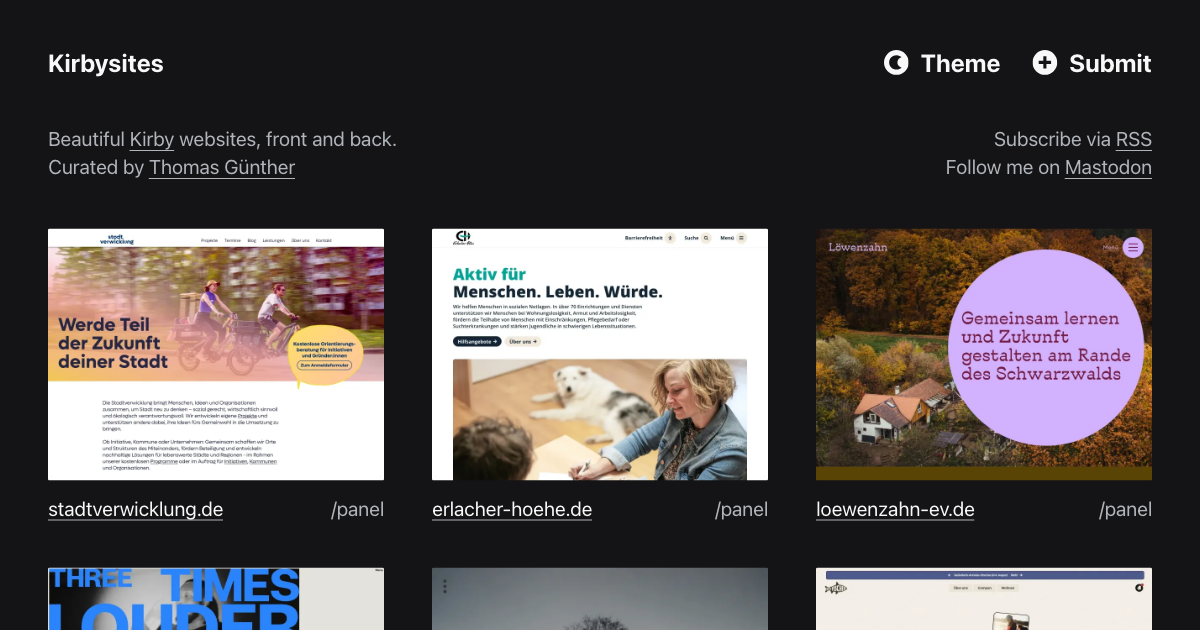
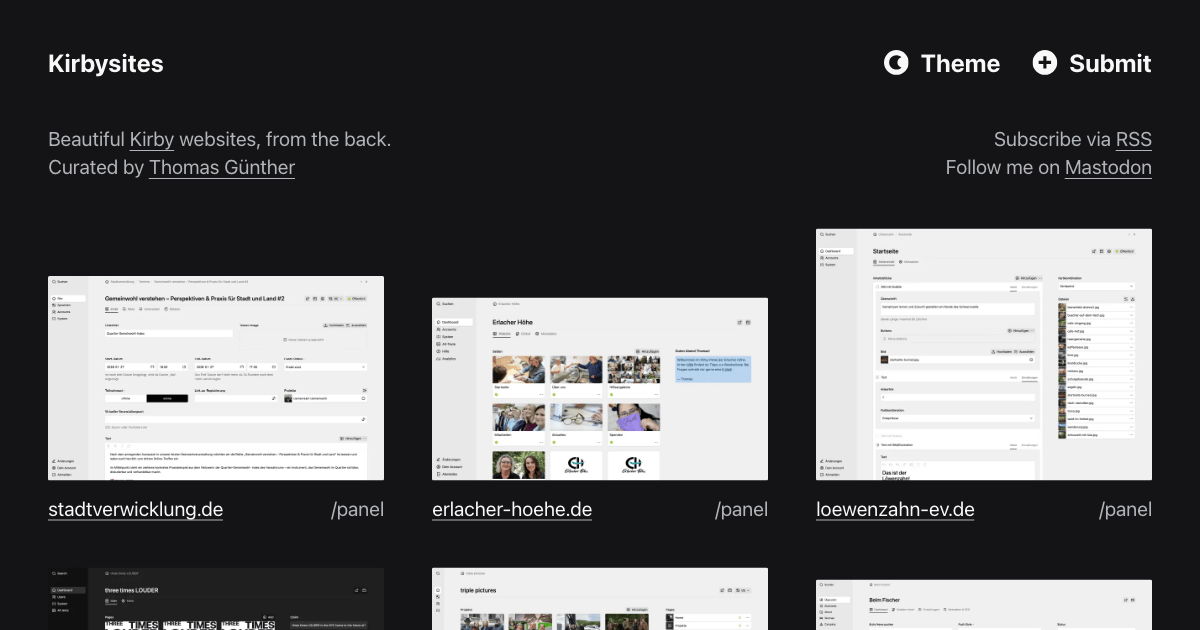
Who cares about the frontend anyways?

diff --git a/assets/css/style.min.css b/assets/css/style.min.css
@@ -1,2 +1,2 @@
-@layer reset{*,*:before,*:after{box-sizing:border-box}*{margin:0;padding:0}:root{text-size-adjust:none}img,picture,video,canvas,svg{display:block;max-width:100%}input,button,textarea,select{font:inherit;color:inherit}h1,h2,h3,h4,h5,h6{margin:0;font-size:inherit;font-weight:inherit}button{all:unset;cursor:pointer;box-sizing:border-box;&:focus-visible{outline:revert}}a{color:inherit;text-decoration:none}ul,ol{list-style-type:none}}@layer base{:root{font:16px system-ui,sans-serif;scroll-padding-block:calc(var(--spacing-block))}body{background-color:var(--color-primary);color:var(--color-secondary);font-size:var(--font-size-m)}@media (prefers-reduced-motion: no-preference){@view-transition{navigation: auto;}::view-transition-group(.screenshot){animation-duration:.25s;animation-timing-function:var(--ease-in-out-3);z-index:10;opacity:1}}::selection,::target-text{background-color:var(--color-secondary);color:var(--color-primary)}}@layer base{:root{--color-primary: #141416;--color-secondary: #f8f8f8;--color-tertiary: #b1b4ba}@media (prefers-color-scheme: light){:root:not([data-theme]){--color-primary: #f8f8f8;--color-secondary: #141416;--color-tertiary: #6b6e74}}[data-theme=light]{--color-primary: #f8f8f8;--color-secondary: #141416;--color-tertiary: #6b6e74}}@layer base{:root{--focus-outline-color: currentColor;--focus-outline-offset: .2rem;--focus-outline-style: solid;--focus-outline-width: .2rem}*:focus-visible{outline-color:var(--focus-outline-color);outline-offset:var(--focus-outline-offset);outline-style:var(--focus-outline-style);outline-width:var(--focus-outline-width);border-radius:var(--border-radius)}}@layer base{.wrap{padding-inline:var(--spacing-inline)}.inner{width:100%;max-width:var(--width-max);margin:0 auto}.grid{display:grid;grid-template-columns:repeat(12,1fr);gap:var(--spacing-grid)}hr{margin-block:calc(var(--spacing-flow) * 2);height:1px;border:none;background-color:currentColor;opacity:.25}}@layer base{@media (scripting: enabled){[loading=lazy]{opacity:0;transition:opacity .5s}}}@layer base{.rich-text{line-height:1.4;text-wrap:pretty;>*:first-child{margin-block-start:0}>*:last-child{margin-block-end:0}}.rich-text p{margin-block:var(--spacing-flow)}.rich-text a,.link-decoration{text-decoration:underline;text-decoration-thickness:.06em;text-underline-offset:.2em;text-decoration-color:var(--color-tertiary);word-break:break-word;transition:all .1s var(--ease-1);transition-property:color,text-decoration-color;&:focus-visible,&:hover{color:var(--color-secondary);text-decoration-color:var(--color-secondary)}&:active{filter:brightness(.9)}}.rich-text strong{font-weight:700}.rich-text em{font-style:italic}.rich-text code{background:color-mix(in srgb,var(--color-secondary),var(--color-primary) 90%);border:1px solid color-mix(in srgb,var(--color-secondary),var(--color-primary) 80%);padding:.2em;border-radius:var(--border-radius);font-size:.85em;word-break:break-word;font-family:monospace}}@layer base{:root{-webkit-font-smoothing:antialiased;-moz-osx-font-smoothing:grayscale}:root{--font-size-s: clamp(.875rem, .8155rem + .2381vw, 1rem);--font-size-m: clamp(1.05rem, .9548rem + .381vw, 1.25rem);--font-size-l: clamp(1.26rem, 1.116rem + .5762vw, 1.5625rem)}}@layer base{:root{--ease-1: cubic-bezier(.25, 0, .5, 1);--ease-2: cubic-bezier(.25, 0, .4, 1);--ease-3: cubic-bezier(.25, 0, .3, 1);--ease-4: cubic-bezier(.25, 0, .2, 1);--ease-5: cubic-bezier(.25, 0, .1, 1);--ease-in-1: cubic-bezier(.25, 0, 1, 1);--ease-in-2: cubic-bezier(.5, 0, 1, 1);--ease-in-3: cubic-bezier(.7, 0, 1, 1);--ease-in-4: cubic-bezier(.9, 0, 1, 1);--ease-in-5: cubic-bezier(1, 0, 1, 1);--ease-out-1: cubic-bezier(0, 0, .75, 1);--ease-out-2: cubic-bezier(0, 0, .5, 1);--ease-out-3: cubic-bezier(0, 0, .3, 1);--ease-out-4: cubic-bezier(0, 0, .1, 1);--ease-out-5: cubic-bezier(0, 0, 0, 1);--ease-in-out-1: cubic-bezier(.1, 0, .9, 1);--ease-in-out-2: cubic-bezier(.3, 0, .7, 1);--ease-in-out-3: cubic-bezier(.5, 0, .5, 1);--ease-in-out-4: cubic-bezier(.7, 0, .3, 1);--ease-in-out-5: cubic-bezier(.9, 0, .1, 1);--ease-elastic-out-1: cubic-bezier(.5, .75, .75, 1.25);--ease-elastic-out-2: cubic-bezier(.5, 1, .75, 1.25);--ease-elastic-out-3: cubic-bezier(.5, 1.25, .75, 1.25);--ease-elastic-out-4: cubic-bezier(.5, 1.5, .75, 1.25);--ease-elastic-out-5: cubic-bezier(.5, 1.75, .75, 1.25);--ease-elastic-in-1: cubic-bezier(.5, -.25, .75, 1);--ease-elastic-in-2: cubic-bezier(.5, -.5, .75, 1);--ease-elastic-in-3: cubic-bezier(.5, -.75, .75, 1);--ease-elastic-in-4: cubic-bezier(.5, -1, .75, 1);--ease-elastic-in-5: cubic-bezier(.5, -1.25, .75, 1);--ease-elastic-in-out-1: cubic-bezier(.5, -.1, .1, 1.5);--ease-elastic-in-out-2: cubic-bezier(.5, -.3, .1, 1.5);--ease-elastic-in-out-3: cubic-bezier(.5, -.5, .1, 1.5);--ease-elastic-in-out-4: cubic-bezier(.5, -.7, .1, 1.5);--ease-elastic-in-out-5: cubic-bezier(.5, -.9, .1, 1.5);--ease-step-1: steps(2);--ease-step-2: steps(3);--ease-step-3: steps(4);--ease-step-4: steps(7);--ease-step-5: steps(10);--ease-elastic-1: var(--ease-elastic-out-1);--ease-elastic-2: var(--ease-elastic-out-2);--ease-elastic-3: var(--ease-elastic-out-3);--ease-elastic-4: var(--ease-elastic-out-4);--ease-elastic-5: var(--ease-elastic-out-5);--ease-squish-1: var(--ease-elastic-in-out-1);--ease-squish-2: var(--ease-elastic-in-out-2);--ease-squish-3: var(--ease-elastic-in-out-3);--ease-squish-4: var(--ease-elastic-in-out-4);--ease-squish-5: var(--ease-elastic-in-out-5);--ease-spring-1: linear( 0, .006, .025 2.8%, .101 6.1%, .539 18.9%, .721 25.3%, .849 31.5%, .937 38.1%, .968 41.8%, .991 45.7%, 1.006 50.1%, 1.015 55%, 1.017 63.9%, 1.001 );--ease-spring-2: linear( 0, .007, .029 2.2%, .118 4.7%, .625 14.4%, .826 19%, .902, .962, 1.008 26.1%, 1.041 28.7%, 1.064 32.1%, 1.07 36%, 1.061 40.5%, 1.015 53.4%, .999 61.6%, .995 71.2%, 1 );--ease-spring-3: linear( 0, .009, .035 2.1%, .141 4.4%, .723 12.9%, .938 16.7%, 1.017, 1.077, 1.121, 1.149 24.3%, 1.159, 1.163, 1.161, 1.154 29.9%, 1.129 32.8%, 1.051 39.6%, 1.017 43.1%, .991, .977 51%, .974 53.8%, .975 57.1%, .997 69.8%, 1.003 76.9%, 1 );--ease-spring-4: linear( 0, .009, .037 1.7%, .153 3.6%, .776 10.3%, 1.001, 1.142 16%, 1.185, 1.209 19%, 1.215 19.9% 20.8%, 1.199, 1.165 25%, 1.056 30.3%, 1.008 33%, .973, .955 39.2%, .953 41.1%, .957 43.3%, .998 53.3%, 1.009 59.1% 63.7%, .998 78.9%, 1 );--ease-spring-5: linear( 0, .01, .04 1.6%, .161 3.3%, .816 9.4%, 1.046, 1.189 14.4%, 1.231, 1.254 17%, 1.259, 1.257 18.6%, 1.236, 1.194 22.3%, 1.057 27%, .999 29.4%, .955 32.1%, .942, .935 34.9%, .933, .939 38.4%, 1 47.3%, 1.011, 1.017 52.6%, 1.016 56.4%, 1 65.2%, .996 70.2%, 1.001 87.2%, 1 );--ease-bounce-1: linear( 0, .004, .016, .035, .063, .098, .141, .191, .25, .316, .391 36.8%, .563, .766, 1 58.8%, .946, .908 69.1%, .895, .885, .879, .878, .879, .885, .895, .908 89.7%, .946, 1 );--ease-bounce-2: linear( 0, .004, .016, .035, .063, .098, .141 15.1%, .25, .391, .562, .765, 1, .892 45.2%, .849, .815, .788, .769, .757, .753, .757, .769, .788, .815, .85, .892 75.2%, 1 80.2%, .973, .954, .943, .939, .943, .954, .973, 1 );--ease-bounce-3: linear( 0, .004, .016, .035, .062, .098, .141 11.4%, .25, .39, .562, .764, 1 30.3%, .847 34.8%, .787, .737, .699, .672, .655, .65, .656, .672, .699, .738, .787, .847 61.7%, 1 66.2%, .946, .908, .885 74.2%, .879, .878, .879, .885 79.5%, .908, .946, 1 87.4%, .981, .968, .96, .957, .96, .968, .981, 1 );--ease-bounce-4: linear( 0, .004, .016 3%, .062, .141, .25, .391, .562 18.2%, 1 24.3%, .81, .676 32.3%, .629, .595, .575, .568, .575, .595, .629, .676 48.2%, .811, 1 56.2%, .918, .86, .825, .814, .825, .86, .918, 1 77.2%, .94 80.6%, .925, .92, .925, .94 87.5%, 1 90.9%, .974, .965, .974, 1 );--ease-bounce-5: linear( 0, .004, .016 2.5%, .063, .141, .25 10.1%, .562, 1 20.2%, .783, .627, .534 30.9%, .511, .503, .511, .534 38%, .627, .782, 1 48.7%, .892, .815, .769 56.3%, .757, .753, .757, .769 61.3%, .815, .892, 1 68.8%, .908 72.4%, .885, .878, .885, .908 79.4%, 1 83%, .954 85.5%, .943, .939, .943, .954 90.5%, 1 93%, .977, .97, .977, 1 )}}@layer base{:root{--width-max: 1200px;--spacing-flow: 1rem;--spacing-grid: 1rem;--spacing-inline: 3rem;--spacing-block: 3rem;--spacing-block-s: 1rem;--spacing-block-l: 6rem;--border-radius: .1rem;@media (max-width: 1000px){--spacing-inline: 1rem;--spacing-block: 2rem;--spacing-block-l: 4rem}}}@layer base;@layer components{.columns{display:grid;gap:var(--spacing-block) var(--spacing-inline);@media (min-width: 1000px){grid-template-columns:repeat(auto-fit,minmax(20rem,1fr))}}}@layer components{.icon-button{display:flex;align-items:center;gap:.75rem;color:var(--color-secondary);line-height:1;&:active{filter:brightness(.9)}@media (max-width: 500px){gap:.25rem}}.icon-button__icon{width:1lh;height:1lh;color:currentColor}}@layer components{.logo{&:active{filter:brightness(.9)}}}@layer components{.skip-to-content{position:absolute;top:0;left:0;right:0;margin-inline:auto;z-index:10;max-width:fit-content;transform:translateY(-100%);opacity:0;padding:.5rem;background-color:var(--color-primary);color:var(--color-secondary);@media (prefers-reduced-motion: no-preference){transition:all .25s var(--ease-spring-1);transition-property:transform,opacity}&:focus-visible{transform:translateY(0);opacity:1}}}@layer components{.submit-dialog{margin:auto;max-width:30rem;padding:2rem;background-color:var(--color-primary);color:var(--color-secondary);border:none;border-radius:var(--border-radius);font-size:var(--font-size-l);&::backdrop{background-color:color-mix(in srgb,var(--color-primary),transparent 20%);backdrop-filter:blur(10px)}}.submit-dialog__header{display:flex;align-items:center;margin-block-end:1.5rem}.submit-dialog__title{font-weight:700}.submit-dialog__text{font-size:var(--font-size-m)}.submit-dialog__close{margin-inline-start:auto;border-radius:100%;&:active{filter:brightness(.9)}}.submit-dialog__close-icon{width:1lh;height:1lh}}@layer components{.theme-toggle__icon{display:flex;transition:opacity .2s ease}.theme-toggle__icon--light{display:none}[data-theme=light] .theme-toggle__icon--light{display:flex}[data-theme=light] .theme-toggle__icon--dark{display:none}@media (prefers-color-scheme: light){:root:not([data-theme]) .theme-toggle__icon--light{display:flex}:root:not([data-theme]) .theme-toggle__icon--dark{display:none}}}@layer components{.mode-toggle{display:none}.mode-toggle__icon{display:flex;transition:opacity .2s ease}.mode-toggle__icon--list{display:none}[data-mode=list] .mode-toggle__icon--list{display:flex}[data-mode=list] .mode-toggle__icon--grid{display:none}}@layer components{.website-image{border-radius:var(--border-radius);@media (max-width: 1000px){border-radius:0}}.website-image--frontend{view-transition-class:screenshot;[data-theme=light] &{box-shadow:0 0 #14141600,0 0 2px #14141603,0 1px 4px #14141603,0 2px 6px #14141605,0 3px 10px #14141605}}.website-image__caption{margin-block-start:var(--spacing-block-s);color:var(--color-tertiary);max-width:75ch;text-wrap:balance;@media (max-width: 1000px){margin-inline:var(--spacing-inline)}}}@layer components{.website-link{display:flex;flex-direction:column;border-radius:var(--border-radius);gap:var(--spacing-block-s);position:relative}.website-link__image-link{--focus-outline-offset: .25rem;view-transition-class:screenshot}.website-link__image{aspect-ratio:4 / 3;height:auto;object-fit:cover;object-position:top;border-radius:var(--border-radius);&:active{filter:brightness(.9)}[data-theme=light] &{box-shadow:0 0 #14141600,0 0 2px #14141603,0 1px 4px #14141603,0 2px 6px #14141605,0 3px 10px #14141605}}.website-link__text{display:flex;align-items:center;justify-content:space-between;gap:1rem}.website-link__url{position:relative;z-index:2;white-space:nowrap;overflow-x:clip;text-overflow:ellipsis;min-width:0}.website-link__panel{color:var(--color-tertiary);transition:all .1s var(--ease-1);transition-property:color;&:hover,&:focus-visible{color:var(--color-secondary)}&:active{filter:brightness(.9)}}}@layer components;@layer sections{.header{font-weight:700;margin-block:var(--spacing-block);font-size:var(--font-size-l)}.header__inner{display:flex;justify-content:space-between}.header__buttons{display:flex;gap:2rem;@media (max-width: 500px){font-size:var(--font-size-m);gap:1rem}@media (max-width: 400px){gap:.5rem}}}@layer sections{.footer{margin-block:var(--spacing-block-l);font-size:var(--font-size-s);color:var(--color-tertiary)}.footer__inner{display:flex;gap:1rem}}@layer sections{.intro{margin-block:var(--spacing-block);font-size:var(--font-size-m);color:var(--color-tertiary)}.intro__aside{@media (min-width: 1000px){text-align:end}}}@layer sections{.outro{margin-block:var(--spacing-block);font-size:var(--font-size-m);color:var(--color-tertiary)}}@layer sections{.pagination{margin-block:var(--spacing-block);font-size:var(--font-size-m);display:flex;border-block-start:1px solid color-mix(in srgb,var(--color-secondary),transparent 90%);padding-block-start:var(--spacing-block);gap:var(--spacing-inline)}.pagination__link{color:var(--color-tertiary);transition:all .1s var(--ease-1);transition-property:color;white-space:nowrap;min-width:0;overflow-x:clip;text-overflow:ellipsis;&:hover,&:focus-visible{color:var(--color-secondary)}}.pagination__link--next{margin-inline-start:auto}}@layer sections{.website-images{margin-block:var(--spacing-block)}.website-images__inner{display:flex;flex-direction:column;gap:var(--spacing-block);@media (max-width: 1000px){margin-inline:calc(var(--spacing-inline) * -1);width:auto}}.website-images__item{width:100%;height:auto}}@layer sections{.website-links{margin-block:var(--spacing-block)}.website-links__item{min-width:0}}@layer sections{.website-list{margin-block:var(--spacing-block-l);overflow:clip}.website-list__list{display:flex;flex-direction:column;gap:var(--spacing-block-l)}.website-list-item{display:flex;flex-direction:column;overflow-x:scroll;scroll-snap-type:x mandatory;--negative-space: calc((100vw - var(--width-max)) / 2);margin-inline:calc((var(--negative-space)) * -1);scroll-padding-inline:calc(var(--negative-space));padding-inline:var(--negative-space);padding-block-end:var(--spacing-block-s);scrollbar-width:thin;scrollbar-color:var(--color-secondary) transparent;@media (max-width: 1200px){--negative-space: var(--spacing-inline)}}.website-list-item__header{display:grid;grid-template-columns:1fr auto;position:sticky;left:0;color:var(--color-tertiary);@media (max-width: 1000px){grid-template-columns:1fr}}.website-list-item__title{color:var(--color-secondary);font-weight:700;grid-column:1;grid-row:1}.website-list-item__text{grid-column:1 / -1}.website-list-item__link{grid-column:2;grid-row:1;@media (max-width: 1000px){grid-column:auto;grid-row:auto;margin-block-start:var(--spacing-block-s)}}.website-list-item__list{margin-block-start:var(--spacing-block-s);display:flex;gap:var(--spacing-block-s);>*{flex:0 0 30rem;@media (max-width: 1200px){flex-basis:15rem}}&:after{content:"";display:block;flex:0 0 auto;width:max(1px,calc(var(--negative-space) - var(--spacing-block-s)))}}.website-list-item__image-wrap{aspect-ratio:4 / 3;overflow:clip;min-height:0;scroll-snap-align:start}.website-list-item__image{width:100%;height:auto;max-height:100%}}@layer sections;
+@layer reset{*,*:before,*:after{box-sizing:border-box}*{margin:0;padding:0}:root{text-size-adjust:none}img,picture,video,canvas,svg{display:block;max-width:100%}input,button,textarea,select{font:inherit;color:inherit}h1,h2,h3,h4,h5,h6{margin:0;font-size:inherit;font-weight:inherit}button{all:unset;cursor:pointer;box-sizing:border-box;&:focus-visible{outline:revert}}a{color:inherit;text-decoration:none}ul,ol{list-style-type:none}}@layer base{:root{font:16px system-ui,sans-serif;scroll-padding-block:calc(var(--spacing-block))}body{background-color:var(--color-primary);color:var(--color-secondary);font-size:var(--font-size-m)}@media (prefers-reduced-motion: no-preference){@view-transition{navigation: auto;}::view-transition-group(.screenshot){animation-duration:.25s;animation-timing-function:var(--ease-in-out-3);z-index:10;opacity:1}}::selection,::target-text{background-color:var(--color-secondary);color:var(--color-primary)}}@layer base{:root{--color-primary: #141416;--color-secondary: #f8f8f8;--color-tertiary: #b1b4ba}@media (prefers-color-scheme: light){:root:not([data-theme]){--color-primary: #f8f8f8;--color-secondary: #141416;--color-tertiary: #6b6e74}}[data-theme=light]{--color-primary: #f8f8f8;--color-secondary: #141416;--color-tertiary: #6b6e74}}@layer base{:root{--focus-outline-color: currentColor;--focus-outline-offset: .2rem;--focus-outline-style: solid;--focus-outline-width: .2rem}*:focus-visible{outline-color:var(--focus-outline-color);outline-offset:var(--focus-outline-offset);outline-style:var(--focus-outline-style);outline-width:var(--focus-outline-width);border-radius:var(--border-radius)}}@layer base{.wrap{padding-inline:var(--spacing-inline)}.inner{width:100%;max-width:var(--width-max);margin:0 auto}.grid{display:grid;grid-template-columns:repeat(12,1fr);gap:var(--spacing-grid)}hr{margin-block:calc(var(--spacing-flow) * 2);height:1px;border:none;background-color:currentColor;opacity:.25}}@layer base{@media (scripting: enabled){[loading=lazy]{opacity:0;transition:opacity .5s}}}@layer base{.rich-text{line-height:1.4;text-wrap:pretty;>*:first-child{margin-block-start:0}>*:last-child{margin-block-end:0}}.rich-text p{margin-block:var(--spacing-flow)}.rich-text a,.link-decoration{text-decoration:underline;text-decoration-thickness:.06em;text-underline-offset:.2em;text-decoration-color:var(--color-tertiary);word-break:break-word;transition:all .1s var(--ease-1);transition-property:color,text-decoration-color;&:focus-visible,&:hover{color:var(--color-secondary);text-decoration-color:var(--color-secondary)}&:active{filter:brightness(.9)}}.rich-text strong{font-weight:700}.rich-text em{font-style:italic}.rich-text code{background:color-mix(in srgb,var(--color-secondary),var(--color-primary) 90%);border:1px solid color-mix(in srgb,var(--color-secondary),var(--color-primary) 80%);padding:.2em;border-radius:var(--border-radius);font-size:.85em;word-break:break-word;font-family:monospace}}@layer base{:root{-webkit-font-smoothing:antialiased;-moz-osx-font-smoothing:grayscale}:root{--font-size-s: clamp(.875rem, .8155rem + .2381vw, 1rem);--font-size-m: clamp(1.05rem, .9548rem + .381vw, 1.25rem);--font-size-l: clamp(1.26rem, 1.116rem + .5762vw, 1.5625rem)}}@layer base{:root{--ease-1: cubic-bezier(.25, 0, .5, 1);--ease-2: cubic-bezier(.25, 0, .4, 1);--ease-3: cubic-bezier(.25, 0, .3, 1);--ease-4: cubic-bezier(.25, 0, .2, 1);--ease-5: cubic-bezier(.25, 0, .1, 1);--ease-in-1: cubic-bezier(.25, 0, 1, 1);--ease-in-2: cubic-bezier(.5, 0, 1, 1);--ease-in-3: cubic-bezier(.7, 0, 1, 1);--ease-in-4: cubic-bezier(.9, 0, 1, 1);--ease-in-5: cubic-bezier(1, 0, 1, 1);--ease-out-1: cubic-bezier(0, 0, .75, 1);--ease-out-2: cubic-bezier(0, 0, .5, 1);--ease-out-3: cubic-bezier(0, 0, .3, 1);--ease-out-4: cubic-bezier(0, 0, .1, 1);--ease-out-5: cubic-bezier(0, 0, 0, 1);--ease-in-out-1: cubic-bezier(.1, 0, .9, 1);--ease-in-out-2: cubic-bezier(.3, 0, .7, 1);--ease-in-out-3: cubic-bezier(.5, 0, .5, 1);--ease-in-out-4: cubic-bezier(.7, 0, .3, 1);--ease-in-out-5: cubic-bezier(.9, 0, .1, 1);--ease-elastic-out-1: cubic-bezier(.5, .75, .75, 1.25);--ease-elastic-out-2: cubic-bezier(.5, 1, .75, 1.25);--ease-elastic-out-3: cubic-bezier(.5, 1.25, .75, 1.25);--ease-elastic-out-4: cubic-bezier(.5, 1.5, .75, 1.25);--ease-elastic-out-5: cubic-bezier(.5, 1.75, .75, 1.25);--ease-elastic-in-1: cubic-bezier(.5, -.25, .75, 1);--ease-elastic-in-2: cubic-bezier(.5, -.5, .75, 1);--ease-elastic-in-3: cubic-bezier(.5, -.75, .75, 1);--ease-elastic-in-4: cubic-bezier(.5, -1, .75, 1);--ease-elastic-in-5: cubic-bezier(.5, -1.25, .75, 1);--ease-elastic-in-out-1: cubic-bezier(.5, -.1, .1, 1.5);--ease-elastic-in-out-2: cubic-bezier(.5, -.3, .1, 1.5);--ease-elastic-in-out-3: cubic-bezier(.5, -.5, .1, 1.5);--ease-elastic-in-out-4: cubic-bezier(.5, -.7, .1, 1.5);--ease-elastic-in-out-5: cubic-bezier(.5, -.9, .1, 1.5);--ease-step-1: steps(2);--ease-step-2: steps(3);--ease-step-3: steps(4);--ease-step-4: steps(7);--ease-step-5: steps(10);--ease-elastic-1: var(--ease-elastic-out-1);--ease-elastic-2: var(--ease-elastic-out-2);--ease-elastic-3: var(--ease-elastic-out-3);--ease-elastic-4: var(--ease-elastic-out-4);--ease-elastic-5: var(--ease-elastic-out-5);--ease-squish-1: var(--ease-elastic-in-out-1);--ease-squish-2: var(--ease-elastic-in-out-2);--ease-squish-3: var(--ease-elastic-in-out-3);--ease-squish-4: var(--ease-elastic-in-out-4);--ease-squish-5: var(--ease-elastic-in-out-5);--ease-spring-1: linear( 0, .006, .025 2.8%, .101 6.1%, .539 18.9%, .721 25.3%, .849 31.5%, .937 38.1%, .968 41.8%, .991 45.7%, 1.006 50.1%, 1.015 55%, 1.017 63.9%, 1.001 );--ease-spring-2: linear( 0, .007, .029 2.2%, .118 4.7%, .625 14.4%, .826 19%, .902, .962, 1.008 26.1%, 1.041 28.7%, 1.064 32.1%, 1.07 36%, 1.061 40.5%, 1.015 53.4%, .999 61.6%, .995 71.2%, 1 );--ease-spring-3: linear( 0, .009, .035 2.1%, .141 4.4%, .723 12.9%, .938 16.7%, 1.017, 1.077, 1.121, 1.149 24.3%, 1.159, 1.163, 1.161, 1.154 29.9%, 1.129 32.8%, 1.051 39.6%, 1.017 43.1%, .991, .977 51%, .974 53.8%, .975 57.1%, .997 69.8%, 1.003 76.9%, 1 );--ease-spring-4: linear( 0, .009, .037 1.7%, .153 3.6%, .776 10.3%, 1.001, 1.142 16%, 1.185, 1.209 19%, 1.215 19.9% 20.8%, 1.199, 1.165 25%, 1.056 30.3%, 1.008 33%, .973, .955 39.2%, .953 41.1%, .957 43.3%, .998 53.3%, 1.009 59.1% 63.7%, .998 78.9%, 1 );--ease-spring-5: linear( 0, .01, .04 1.6%, .161 3.3%, .816 9.4%, 1.046, 1.189 14.4%, 1.231, 1.254 17%, 1.259, 1.257 18.6%, 1.236, 1.194 22.3%, 1.057 27%, .999 29.4%, .955 32.1%, .942, .935 34.9%, .933, .939 38.4%, 1 47.3%, 1.011, 1.017 52.6%, 1.016 56.4%, 1 65.2%, .996 70.2%, 1.001 87.2%, 1 );--ease-bounce-1: linear( 0, .004, .016, .035, .063, .098, .141, .191, .25, .316, .391 36.8%, .563, .766, 1 58.8%, .946, .908 69.1%, .895, .885, .879, .878, .879, .885, .895, .908 89.7%, .946, 1 );--ease-bounce-2: linear( 0, .004, .016, .035, .063, .098, .141 15.1%, .25, .391, .562, .765, 1, .892 45.2%, .849, .815, .788, .769, .757, .753, .757, .769, .788, .815, .85, .892 75.2%, 1 80.2%, .973, .954, .943, .939, .943, .954, .973, 1 );--ease-bounce-3: linear( 0, .004, .016, .035, .062, .098, .141 11.4%, .25, .39, .562, .764, 1 30.3%, .847 34.8%, .787, .737, .699, .672, .655, .65, .656, .672, .699, .738, .787, .847 61.7%, 1 66.2%, .946, .908, .885 74.2%, .879, .878, .879, .885 79.5%, .908, .946, 1 87.4%, .981, .968, .96, .957, .96, .968, .981, 1 );--ease-bounce-4: linear( 0, .004, .016 3%, .062, .141, .25, .391, .562 18.2%, 1 24.3%, .81, .676 32.3%, .629, .595, .575, .568, .575, .595, .629, .676 48.2%, .811, 1 56.2%, .918, .86, .825, .814, .825, .86, .918, 1 77.2%, .94 80.6%, .925, .92, .925, .94 87.5%, 1 90.9%, .974, .965, .974, 1 );--ease-bounce-5: linear( 0, .004, .016 2.5%, .063, .141, .25 10.1%, .562, 1 20.2%, .783, .627, .534 30.9%, .511, .503, .511, .534 38%, .627, .782, 1 48.7%, .892, .815, .769 56.3%, .757, .753, .757, .769 61.3%, .815, .892, 1 68.8%, .908 72.4%, .885, .878, .885, .908 79.4%, 1 83%, .954 85.5%, .943, .939, .943, .954 90.5%, 1 93%, .977, .97, .977, 1 )}}@layer base{:root{--width-max: 1200px;--spacing-flow: 1rem;--spacing-grid: 1rem;--spacing-inline: 3rem;--spacing-block: 3rem;--spacing-block-s: 1rem;--spacing-block-l: 6rem;--border-radius: .1rem;@media (max-width: 1000px){--spacing-inline: 1rem;--spacing-block: 2rem;--spacing-block-l: 4rem}}}@layer base;@layer components{.columns{display:grid;gap:var(--spacing-block) var(--spacing-inline);@media (min-width: 1000px){grid-template-columns:repeat(auto-fit,minmax(20rem,1fr))}}}@layer components{.icon-button{display:flex;align-items:center;gap:.75rem;color:var(--color-secondary);line-height:1;&:active{filter:brightness(.9)}@media (max-width: 500px){gap:.25rem}}.icon-button__icon{width:1lh;height:1lh;color:currentColor}}@layer components{.logo{&:active{filter:brightness(.9)}}}@layer components{.skip-to-content{position:absolute;top:0;left:0;right:0;margin-inline:auto;z-index:10;max-width:fit-content;transform:translateY(-100%);opacity:0;padding:.5rem;background-color:var(--color-primary);color:var(--color-secondary);@media (prefers-reduced-motion: no-preference){transition:all .25s var(--ease-spring-1);transition-property:transform,opacity}&:focus-visible{transform:translateY(0);opacity:1}}}@layer components{.submit-dialog{margin:auto;max-width:30rem;padding:2rem;background-color:var(--color-primary);color:var(--color-secondary);border:none;border-radius:var(--border-radius);font-size:var(--font-size-l);&::backdrop{background-color:color-mix(in srgb,var(--color-primary),transparent 20%);backdrop-filter:blur(10px)}}.submit-dialog__header{display:flex;align-items:center;margin-block-end:1.5rem}.submit-dialog__title{font-weight:700}.submit-dialog__text{font-size:var(--font-size-m)}.submit-dialog__close{margin-inline-start:auto;border-radius:100%;&:active{filter:brightness(.9)}}.submit-dialog__close-icon{width:1lh;height:1lh}}@layer components{.theme-toggle__icon{display:flex;transition:opacity .2s ease}.theme-toggle__icon--light{display:none}[data-theme=light] .theme-toggle__icon--light{display:flex}[data-theme=light] .theme-toggle__icon--dark{display:none}@media (prefers-color-scheme: light){:root:not([data-theme]) .theme-toggle__icon--light{display:flex}:root:not([data-theme]) .theme-toggle__icon--dark{display:none}}}@layer components{.mode-toggle{display:none}.mode-toggle__icon{display:flex;transition:opacity .2s ease}.mode-toggle__icon--list{display:none}[data-mode=list] .mode-toggle__icon--list{display:flex}[data-mode=list] .mode-toggle__icon--grid{display:none}}@layer components{.website-image{border-radius:var(--border-radius);@media (max-width: 1000px){border-radius:0}}.website-image--preview{view-transition-class:screenshot;[data-theme=light] &{box-shadow:0 0 #14141600,0 0 2px #14141603,0 1px 4px #14141603,0 2px 6px #14141605,0 3px 10px #14141605}}.website-image__caption{margin-block-start:var(--spacing-block-s);color:var(--color-tertiary);max-width:75ch;text-wrap:balance;@media (max-width: 1000px){margin-inline:var(--spacing-inline)}}}@layer components{.website-link{display:flex;flex-direction:column;justify-content:end;border-radius:var(--border-radius);gap:var(--spacing-block-s);position:relative}.website-link__image-link{--focus-outline-offset: .25rem;view-transition-class:screenshot}.website-link__image{height:auto;border-radius:var(--border-radius);&:active{filter:brightness(.9)}[data-theme=light] &{box-shadow:0 0 #14141600,0 0 2px #14141603,0 1px 4px #14141603,0 2px 6px #14141605,0 3px 10px #14141605}}.website-link__text{display:flex;align-items:center;justify-content:space-between;gap:1rem}.website-link__url{position:relative;z-index:2;white-space:nowrap;overflow-x:clip;text-overflow:ellipsis;min-width:0}.website-link__panel{color:var(--color-tertiary);transition:all .1s var(--ease-1);transition-property:color;.website-link:hover &,&:focus-visible{color:var(--color-secondary)}&:active{filter:brightness(.9)}}}@layer components;@layer sections{.header{font-weight:700;margin-block:var(--spacing-block);font-size:var(--font-size-l)}.header__inner{display:flex;justify-content:space-between}.header__buttons{display:flex;gap:2rem;@media (max-width: 500px){font-size:var(--font-size-m);gap:1rem}@media (max-width: 400px){gap:.5rem}}}@layer sections{.footer{margin-block:var(--spacing-block-l);font-size:var(--font-size-s);color:var(--color-tertiary)}.footer__inner{display:flex;gap:1rem}}@layer sections{.intro{margin-block:var(--spacing-block);font-size:var(--font-size-m);color:var(--color-tertiary)}.intro__aside{@media (min-width: 1000px){text-align:end}}}@layer sections{.outro{margin-block:var(--spacing-block);font-size:var(--font-size-m);color:var(--color-tertiary)}}@layer sections{.pagination{margin-block:var(--spacing-block);font-size:var(--font-size-m);display:flex;border-block-start:1px solid color-mix(in srgb,var(--color-secondary),transparent 90%);padding-block-start:var(--spacing-block);gap:var(--spacing-inline)}.pagination__link{color:var(--color-tertiary);transition:all .1s var(--ease-1);transition-property:color;white-space:nowrap;min-width:0;overflow-x:clip;text-overflow:ellipsis;&:hover,&:focus-visible{color:var(--color-secondary)}}.pagination__link--next{margin-inline-start:auto}}@layer sections{.website-images{margin-block:var(--spacing-block)}.website-images__inner{display:flex;flex-direction:column;gap:var(--spacing-block);@media (max-width: 1000px){margin-inline:calc(var(--spacing-inline) * -1);width:auto}}.website-images__item{width:100%;height:auto}}@layer sections{.website-links{margin-block:var(--spacing-block)}.website-links__item{min-width:0}}@layer sections{.website-list{margin-block:var(--spacing-block-l);overflow:clip}.website-list__list{display:flex;flex-direction:column;gap:var(--spacing-block-l)}.website-list-item{display:flex;flex-direction:column;overflow-x:scroll;scroll-snap-type:x mandatory;--negative-space: calc((100vw - var(--width-max)) / 2);margin-inline:calc((var(--negative-space)) * -1);scroll-padding-inline:calc(var(--negative-space));padding-inline:var(--negative-space);padding-block-end:var(--spacing-block-s);scrollbar-width:thin;scrollbar-color:var(--color-secondary) transparent;@media (max-width: 1200px){--negative-space: var(--spacing-inline)}}.website-list-item__header{display:grid;grid-template-columns:1fr auto;position:sticky;left:0;color:var(--color-tertiary);@media (max-width: 1000px){grid-template-columns:1fr}}.website-list-item__title{color:var(--color-secondary);font-weight:700;grid-column:1;grid-row:1}.website-list-item__text{grid-column:1 / -1}.website-list-item__link{grid-column:2;grid-row:1;@media (max-width: 1000px){grid-column:auto;grid-row:auto;margin-block-start:var(--spacing-block-s)}}.website-list-item__list{margin-block-start:var(--spacing-block-s);display:flex;gap:var(--spacing-block-s);>*{flex:0 0 30rem;@media (max-width: 1200px){flex-basis:15rem}}&:after{content:"";display:block;flex:0 0 auto;width:max(1px,calc(var(--negative-space) - var(--spacing-block-s)))}}.website-list-item__image-wrap{aspect-ratio:4 / 3;overflow:clip;min-height:0;scroll-snap-align:start}.website-list-item__image{width:100%;height:auto;max-height:100%}}@layer sections;
 /*# sourceMappingURL=style.min.css.map */

diff --git a/assets/css/components/website-link.css b/assets/css/components/website-link.css
@@ -1,6 +1,7 @@
 .website-link {
 	display: flex;
 	flex-direction: column;
+	justify-content: end;
 	border-radius: var(--border-radius);
 	gap: var(--spacing-block-s);
 	position: relative;
@@ -12,18 +13,18 @@
 }
 
 .website-link__image {
-	aspect-ratio: 4 / 3;
 	height: auto;
-	object-fit: cover;
-	object-position: top;
 	border-radius: var(--border-radius);
 	&:active {
 		filter: brightness(0.9);
 	}
 	[data-theme="light"] & {
-		box-shadow: 0px 0px 0px rgba(20, 20, 22, 0),
-			0px 0px 2px rgba(20, 20, 22, 0.01), 0px 1px 4px rgba(20, 20, 22, 0.01),
-			0px 2px 6px rgba(20, 20, 22, 0.02), 0px 3px 10px rgba(20, 20, 22, 0.02);
+		box-shadow:
+			0px 0px 0px rgba(20, 20, 22, 0),
+			0px 0px 2px rgba(20, 20, 22, 0.01),
+			0px 1px 4px rgba(20, 20, 22, 0.01),
+			0px 2px 6px rgba(20, 20, 22, 0.02),
+			0px 3px 10px rgba(20, 20, 22, 0.02);
 	}
 }
 
@@ -47,7 +48,7 @@
 	color: var(--color-tertiary);
 	transition: all 0.1s var(--ease-1);
 	transition-property: color;
-	&:hover,
+	.website-link:hover &,
 	&:focus-visible {
 		color: var(--color-secondary);
 	}

diff --git a/assets/css/components/website-image.css b/assets/css/components/website-image.css
@@ -5,7 +5,7 @@
 	}
 }
 
-.website-image--frontend {
+.website-image--preview {
 	view-transition-class: screenshot;
 	[data-theme="light"] & {
 		box-shadow: 0px 0px 0px rgba(20, 20, 22, 0),

diff --git a/site/snippets/list/website-list.php b/site/snippets/list/website-list.php
@@ -10,26 +10,18 @@
 						<?= $website->text()->kt() ?>
 					</div>
 
-					<a class="website-list-item__link" href="<?= $website->content()->url() ?>"><?= $website->shortUrl() ?></a>
+					<a class="website-list-item__link" href="<?= $website->content()->url() ?>"><?= $website->shortUrl() ?>/panel</a>
 
 				</div>
 
 				<ul class="website-list-item__list">
-					<?php if ($image = $website->frontendImage()): ?>
-						<a href="<?= $website->url() ?>#frontend" class="website-list-item__image-wrap" id="<?= $website->uid() ?>">
-							<figure class="website-list-item__figure">
-								<img class="website-list-item__image" src="<?= $image->resize(800, 600)->url() ?>" alt="<?= $image->alt()->or('Backend screenshot of ' . $website->shortUrl())->html() ?>" loading="lazy" width="<?= $image->width() ?>" height="<?= $image->height() ?>">
-							</figure>
-						</a>
-					<?php endif ?>
-
 					<?php
 					$i = 0;
 					foreach ($website->backendImages() as $image): $i++;
 					?>
-						<a href="<?= $website->url() ?>#backend-<?= $i ?>" class="website-list-item__image-wrap" id="<?= $website->uid() ?>-backend-<?= $i ?>">
-							<figure class=" website-list-item__figure">
-								<img class="website-list-item__image" src="<?= $image->resize(800, null)->url() ?>" alt="<?= $image->alt()->or('Backend screenshot of ' . $website->shortUrl())->html() ?>" loading="lazy" width="<?= $image->width() ?>" height="<?= $image->height() ?>">
+						<a href="<?= $website->url() ?>#screenshot-<?= $i ?>" class="website-list-item__image-wrap" id="<?= $website->uid() ?>-screenshot-<?= $i ?>">
+							<figure class="website-list-item__figure">
+								<img class="website-list-item__image" src="<?= $image->resize(800, null)->url() ?>" alt="<?= $image->alt()->or('Panel screenshot of ' . $website->shortUrl())->html() ?>" loading="lazy" width="<?= $image->width() ?>" height="<?= $image->height() ?>">
 							</figure>
 						</a>
 					<?php endforeach ?>

diff --git a/site/snippets/home/website-links.php b/site/snippets/home/website-links.php
@@ -2,18 +2,14 @@
 	<ul class="columns inner">
 		<?php foreach ($pages->listed()->sortBy('date', 'desc') as $website): ?>
 			<li class="website-links__item website-link">
-				<?php if ($image = $website->frontendImage()): ?>
-					<a class="website-link__image-link" href="<?= $website->url() ?>" id="<?= $website->uid() ?>">
-						<img class="website-link__image" src="<?= $image->resize(800, 600)->url() ?>" alt="<?= $image->alt()->or('Screenshot of ' . $website->shortUrl())->html() ?>" loading="lazy" width="<?= $image->width() ?>" height="<?= $image->height() ?>">
-					</a>
-				<?php endif ?>
+				<a class="website-link__image-link" href="<?= $website->url() ?>" id="<?= $website->uid() ?>">
+					<?php if ($image = $website->previewImage()): ?>
+						<img class="website-link__image" src="<?= $image->resize(800)->url() ?>" alt="<?= $image->alt()->or('Panel screenshot of ' . $website->shortUrl())->html() ?>" loading="lazy" width="<?= $image->width() ?>" height="<?= $image->height() ?>" style="aspect-ratio: <?= $image->width() ?> / <?= $image->height() ?>">
+					<?php endif ?>
+				</a>
 				<div class="website-link__text">
-					<a class="website-link__url link-decoration" href="<?= $website->content()->url() ?>" aria-label="<?= $website->shortUrl() ?>, Frontend">
-						<?= $website->shortUrl() ?>
-					</a>
-					<a class="website-link__panel" href="<?= $website->url() ?>#backend-1" aria-label="<?= $website->shortUrl() ?>, Backend">
-						/panel
-					</a>
+					<a class="website-link__url link-decoration" href="<?= $website->content()->url() ?>"><?= $website->shortUrl() ?></a>
+					<a class="website-link__panel" href="<?= $website->url() ?>">/panel</a>
 				</div>
 			</li>
 		<?php endforeach ?>

diff --git a/site/snippets/website/website-images.php b/site/snippets/website/website-images.php
@@ -2,21 +2,12 @@
 
 	<div class="website-images__inner inner">
 
-		<?php if ($image = $page->frontendImage()): ?>
-			<figure id="frontend">
-				<img class="website-images__item website-image website-image--frontend" src="<?= $image->url() ?>" alt="<?= $image->alt()->or('Frontend screenshot of ' . $page->shortUrl())->html() ?>" width="<?= $image->width() ?>" height="<?= $image->height() ?>" style="view-transition-name: <?= $page->uid() ?>;">
-				<?php if ($image->caption()->isNotEmpty()): ?>
-					<figcaption class="website-image__caption rich-text"><?= $image->caption()->kt() ?></figcaption>
-				<?php endif ?>
-			</figure>
-		<?php endif ?>
-
 		<?php
 		$i = 0;
 		foreach ($page->backendImages() as $image): $i++;
 		?>
-			<figure id="backend-<?= $i ?>">
-				<img class="website-images__item website-image website-image--backend" src="<?= $image->url() ?>" alt="<?= $image->alt()->or('Backend screenshot of ' . $page->shortUrl())->html() ?>" loading="lazy" width="<?= $image->width() ?>" height="<?= $image->height() ?>" id="<?= $page->uid() ?>-backend-<?= $i ?>">
+			<figure id="screenshot-<?= $i ?>">
+				<img class="website-images__item website-image <?= $i === 1 ? 'website-image--preview' : '' ?>" src="<?= $image->url() ?>" alt="<?= $image->alt()->or('Panel screenshot of ' . $page->shortUrl())->html() ?>" <?= $i > 1 ? 'loading="lazy"' : '' ?> width="<?= $image->width() ?>" height="<?= $image->height() ?>" <?= $i === 1 ? 'style="view-transition-name: ' . $page->uid() . ';"' : '' ?>>
 				<?php if ($image->caption()->isNotEmpty()): ?>
 					<figcaption class="website-image__caption rich-text"><?= $image->caption()->kt() ?></figcaption>
 				<?php endif ?>

diff --git a/site/templates/home.xml.php b/site/templates/home.xml.php
@@ -16,24 +16,12 @@ echo '<?xml version="1.0" encoding="UTF-8"?>';
 
 			if ($website->date()->isEmpty()) continue;
 
-			$frontendImage = $website->frontendImage();
-			$backendImages = $website->backendImages();
-
 			$images = '';
 
-			// Frontend image with caption
-			if ($frontendImage) {
-				$images .= '<img src="' . $frontendImage->url() . '" alt="' . $frontendImage->alt()->or('Frontend screenshot of ' . $website->shortUrl())->html() . '" />';
-				if ($frontendImage->caption()->isNotEmpty()) {
-					$images .= $frontendImage->caption()->kt();
-				}
-			}
-
-			// Backend images with captions
-			foreach ($backendImages as $backendImage) {
-				$images .= '<img src="' . $backendImage->url() . '" alt="' . $backendImage->alt()->or('Backend screenshot of ' . $website->shortUrl())->html() . '" />';
-				if ($backendImage->caption()->isNotEmpty()) {
-					$images .= $backendImage->caption()->kt();
+			foreach ($website->backendImages() as $image) {
+				$images .= '<img src="' . $image->url() . '" alt="' . $image->alt()->or('Panel screenshot of ' . $website->shortUrl())->html() . '" />';
+				if ($image->caption()->isNotEmpty()) {
+					$images .= $image->caption()->kt();
 				}
 			}
 			?>

diff --git a/site/commands/new.php b/site/commands/new.php
@@ -6,7 +6,7 @@ use Kirby\CLI\CLI;
 use Kirby\Toolkit\Str;
 
 return [
-	'description' => 'Create a new website page and take a screenshot',
+	'description' => 'Create a new website page',
 	'args' => [],
 	'command' => static function (CLI $cli): void {
 		$cli->out('Enter the website URL:');
@@ -58,22 +58,6 @@ return [
 			$page = $page->publish()->changeNum((int) date('Ymd'));
 
 			$cli->success("Page created: {$page->id()}");
-
-			// Take screenshot
-			$cli->out("Taking screenshot...");
-
-			$result = Screenshot::capture($url, $page->root() . '/frontend.webp', [
-				'delay' => 2000,
-				'quality' => 80,
-				'format' => 'webp',
-				'viewport' => ['width' => 1600, 'height' => 1200]
-			]);
-
-			if ($result['success']) {
-				$cli->success("Done: {$result['filepath']}");
-			} else {
-				$cli->error("Screenshot failed: {$result['error']}");
-			}
 		} catch (Exception $e) {
 			$cli->error($e->getMessage());
 		}

diff --git a/site/models/website.php b/site/models/website.php
@@ -1,7 +1,6 @@
 <?php
 
 use Kirby\Cms\Url;
-use Kirby\Cms\File;
 
 require_once kirby()->root('models') . '/default.php';
 
@@ -9,19 +8,19 @@ class WebsitePage extends DefaultPage
 {
 
 	/**
-	 * Get the image with the name "frontend"
+	 * Get the first backend image as the preview image
 	 *
 	 * @return Kirby\Cms\File|null
 	 */
-	public function frontendImage()
+	public function previewImage()
 	{
-		return $this->images()->findBy('name', 'frontend');
+		return $this->backendImages()->first();
 	}
 
 	/**
 	 * Get all the images of a page except the one named "frontend"
 	 *
-	 * @return Kirby\Cms\File|null
+	 * @return Kirby\Cms\Files
 	 */
 	public function backendImages()
 	{

diff --git a/README.md b/README.md
@@ -15,8 +15,6 @@ Submit your own site by opening a pull request!
 ```
 content/YYYYMMDD_your-domain/
 ├── website.md
-├── frontend.webp
-├── frontend.webp.md
 ├── 1-panel-dashboard.webp
 ├── 1-panel-dashboard.webp.md
 ├── 2-panel-page.webp
@@ -42,7 +40,7 @@ Text: by (link: https://example.com text: designer) and (link: https://example.c
 Date: 2026-01-01 14:25:19
 ```
 
-### Image meta data files (frontend.webp.md, 1-panel-dashboard.webp.md, etc.)
+### Image meta data files (1-panel-dashboard.webp.md, etc.)
 
 ```
 Alt: Description of the screenshot for accessibility
@@ -54,12 +52,11 @@ Caption: Explain what's interesting about this. Link to (link: https://plugins.g
 
 ## CLI Commands
 
-Requires the [Kirby CLI](https://github.com/getkirby/cli). For the screenshots you'll have to run `npm install` in the `site/plugins/screenshot` folder first.
+Requires the [Kirby CLI](https://github.com/getkirby/cli).
 
 | Command | Description |
 |---------|-------------|
-| `kirby new` | Create a new website page with frontend screenshot |
-| `kirby screenshot` | Take a screenshot of an existing page |
+| `kirby new` | Create a new website page |
 | `kirby og` | Take a screenshot of `http://kirbysites.test` for the OG image |
 | `kirby check-panels` | Check if panel URLs are (still) accessible |
 

diff --git a/content/site.md b/content/site.md
@@ -6,10 +6,10 @@ Submit:
 
 Contribute to the (link: https://github.com/medienbaecker/kirbysites.com text: repository on GitHub) with a pull request, or just send me (email: mail@medienbaecker.com text: an email).
 
-Include the URL, credits, a frontend screenshot, and Panel screenshots with captions explaining interesting features or plugins.
+Include the URL, credits, and Panel screenshots with captions explaining interesting features or plugins.
 
 Thank you ♥
 
 ----
 
-Description: Beautiful Kirby websites, front and back. Curated by Thomas Günther.
+Description: Beautiful Kirby websites, from the back. Curated by Thomas Günther.

diff --git a/content/rss/home.md b/content/rss/home.md
@@ -4,7 +4,7 @@ Title: Home
 
 Intro:
 
-Beautiful (link: https://getkirby.com/ text: Kirby) websites, front and back.
+Beautiful (link: https://getkirby.com/ text: Kirby) websites, from the back.
 Curated by (link: https://medienbaecker.com text: Thomas Günther)
 
 ----
